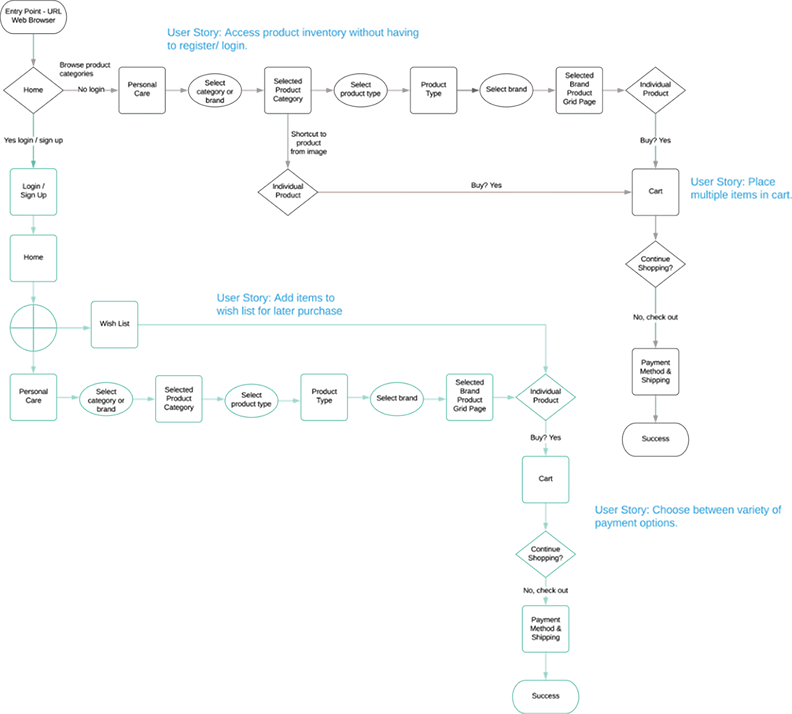
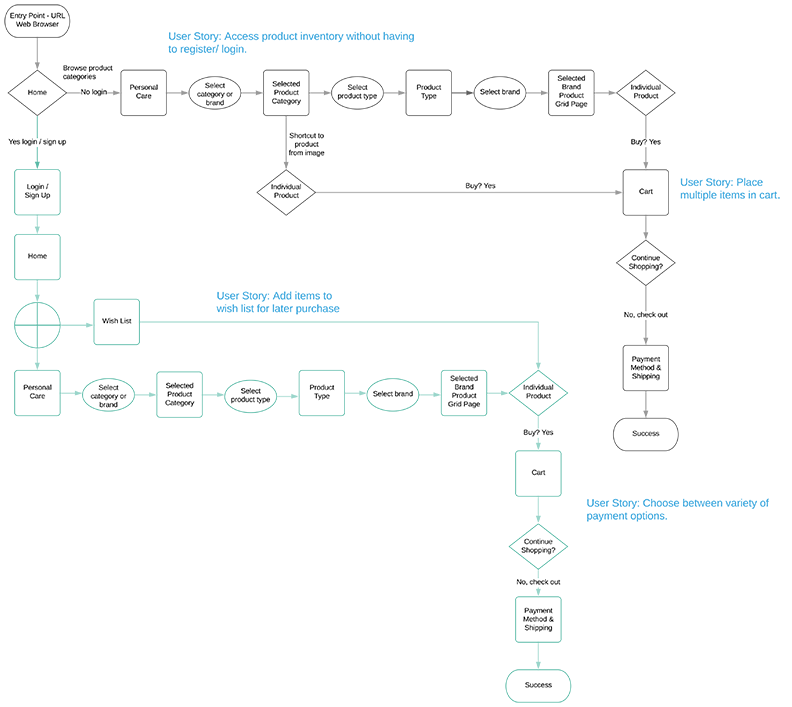
changed "flow"imgs in "gcf2" page

diff --git a/go-cruelty-free2.html b/go-cruelty-free2.html
@@ -176,7 +176,7 @@
         <!--second column flow-->
         <h4>User Flow</h4>
         <picture>
-          <source srcset="images/gcf/mobile/m-gcf-project-flow@277.png" media="(max-width:639px)" />
+          <source srcset="images/gcf/mobile/m-gcf-project-flow@335.png" media="(max-width:639px)" />
           <img src="images/gcf/desktop/d-gcf-project-flow@792.png" alt="User Flow Diagram" />
         </picture>
       </section>
